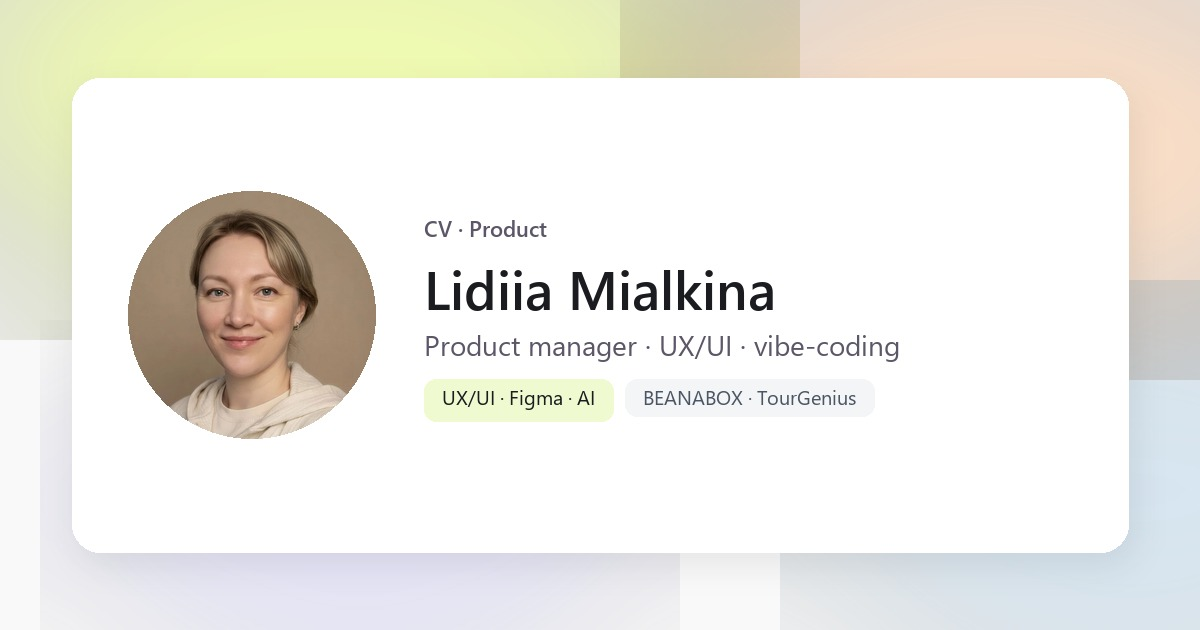
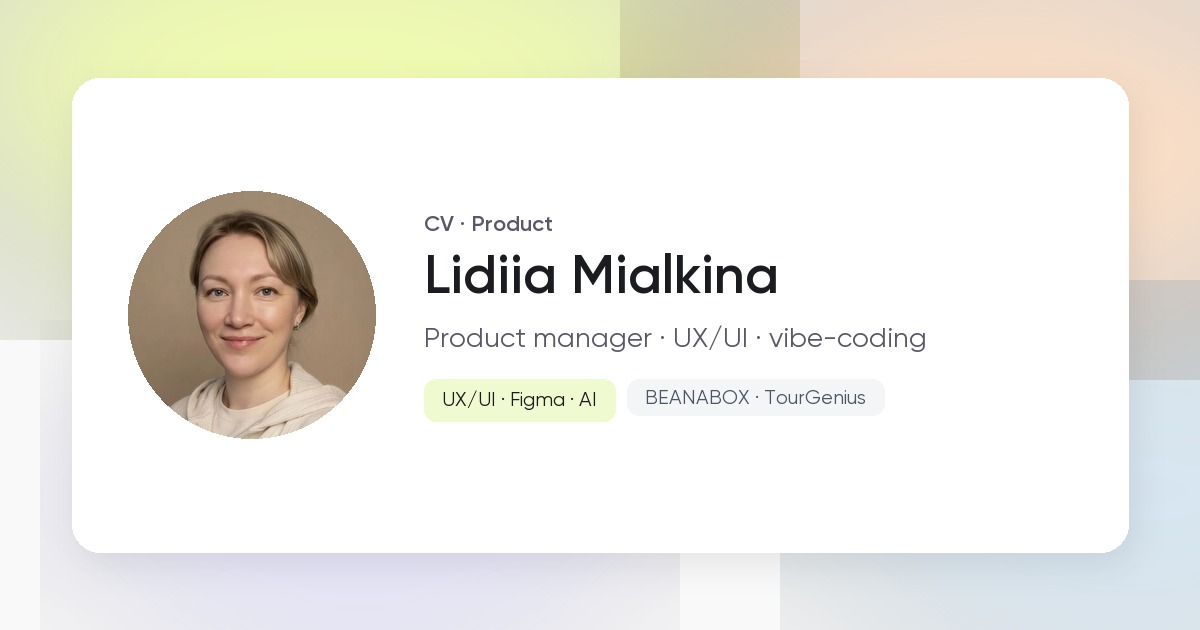
Обновление шрифта OG-бэйдж (RU/EN)

Changed region(s): [[0.3392, 0.3317, 0.7708, 0.573], [0.5242, 0.6032, 0.7092, 0.6635], [0.37, 0.6032, 0.4933, 0.6635]]

diff --git a/index.html b/index.html
@@ -28,14 +28,14 @@
     <meta property="og:url" content="https://lidee4ka.github.io/cv-PMAI/" />
     <meta property="og:locale" content="ru_RU" />
     <meta property="og:locale:alternate" content="en_US" />
-    <meta property="og:image" content="https://lidee4ka.github.io/cv-PMAI/og-cover-ru.jpg?v=5" />
+    <meta property="og:image" content="https://lidee4ka.github.io/cv-PMAI/og-cover-ru.jpg?v=6" />
     <meta property="og:image:alt" content="Лидия Мялкина, продакт-менеджер и UX/UI-дизайнер" />
     <meta property="og:image:width" content="1200" />
     <meta property="og:image:height" content="630" />
     <meta name="twitter:card" content="summary_large_image" />
     <meta name="twitter:title" content="Лидия Мялкина — продакт-менеджер UX/UI" />
     <meta name="twitter:description" content="Продакт-менеджер UX/UI: ТурГений, BEANABOX. Напишите." />
-    <meta name="twitter:image" content="https://lidee4ka.github.io/cv-PMAI/og-cover-ru.jpg?v=5" />
+    <meta name="twitter:image" content="https://lidee4ka.github.io/cv-PMAI/og-cover-ru.jpg?v=6" />
     <meta name="twitter:image:alt" content="Лидия Мялкина, продакт-менеджер и UX/UI-дизайнер" />
     <script type="application/ld+json">{"@context":"https://schema.org","@graph":[{"@type":"ProfilePage","@id":"https://lidee4ka.github.io/cv-PMAI/#page","url":"https://lidee4ka.github.io/cv-PMAI/","name":"Лидия Мялкина — продакт-менеджер, UX/UI, vibe-coding","inLanguage":"ru-RU","isPartOf":{"@id":"https://lidee4ka.github.io/cv-PMAI/#website"},"about":{"@id":"https://lidee4ka.github.io/cv-PMAI/#person"},"mainEntity":{"@id":"https://lidee4ka.github.io/cv-PMAI/#person"}},{"@type":"WebSite","@id":"https://lidee4ka.github.io/cv-PMAI/#website","url":"https://lidee4ka.github.io/cv-PMAI","name":"Лидия Мялкина","alternateName":"Lidiia Mialkina","inLanguage":["ru-RU","en-US"],"publisher":{"@id":"https://lidee4ka.github.io/cv-PMAI/#person"}},{"@type":"Person","@id":"https://lidee4ka.github.io/cv-PMAI/#person","name":"Лидия Мялкина","alternateName":["Lidiia Mialkina"],"jobTitle":"Продакт-менеджер","email":"lv@mialkina.ru","url":"https://lidee4ka.github.io/cv-PMAI","image":"https://lidee4ka.github.io/cv-PMAI/avatar.jpg","sameAs":["https://www.linkedin.com/in/lidiia-mialkina/","https://www.behance.net/lidee4ka","https://t.me/LidaMialkina","https://github.com/lidee4ka"],"address":{"@type":"PostalAddress","addressLocality":"Ярославль","addressCountry":"RU"},"knowsLanguage":["ru","en"]}]}</script>
     <script>

diff --git a/myfinishline.html b/myfinishline.html
@@ -28,14 +28,14 @@
     <meta property="og:url" content="https://lidee4ka.github.io/cv-PMAI/" />
     <meta property="og:locale" content="ru_RU" />
     <meta property="og:locale:alternate" content="en_US" />
-    <meta property="og:image" content="https://lidee4ka.github.io/cv-PMAI/og-cover-ru.jpg?v=5" />
+    <meta property="og:image" content="https://lidee4ka.github.io/cv-PMAI/og-cover-ru.jpg?v=6" />
     <meta property="og:image:alt" content="Лидия Мялкина, продакт-менеджер и UX/UI-дизайнер" />
     <meta property="og:image:width" content="1200" />
     <meta property="og:image:height" content="630" />
     <meta name="twitter:card" content="summary_large_image" />
     <meta name="twitter:title" content="Лидия Мялкина — продакт-менеджер UX/UI" />
     <meta name="twitter:description" content="Продакт-менеджер UX/UI: ТурГений, BEANABOX. Напишите." />
-    <meta name="twitter:image" content="https://lidee4ka.github.io/cv-PMAI/og-cover-ru.jpg?v=5" />
+    <meta name="twitter:image" content="https://lidee4ka.github.io/cv-PMAI/og-cover-ru.jpg?v=6" />
     <meta name="twitter:image:alt" content="Лидия Мялкина, продакт-менеджер и UX/UI-дизайнер" />
     <script type="application/ld+json">{"@context":"https://schema.org","@graph":[{"@type":"ProfilePage","@id":"https://lidee4ka.github.io/cv-PMAI/#page","url":"https://lidee4ka.github.io/cv-PMAI/","name":"Лидия Мялкина — продакт-менеджер, UX/UI, vibe-coding","inLanguage":"ru-RU","isPartOf":{"@id":"https://lidee4ka.github.io/cv-PMAI/#website"},"about":{"@id":"https://lidee4ka.github.io/cv-PMAI/#person"},"mainEntity":{"@id":"https://lidee4ka.github.io/cv-PMAI/#person"}},{"@type":"WebSite","@id":"https://lidee4ka.github.io/cv-PMAI/#website","url":"https://lidee4ka.github.io/cv-PMAI","name":"Лидия Мялкина","alternateName":"Lidiia Mialkina","inLanguage":["ru-RU","en-US"],"publisher":{"@id":"https://lidee4ka.github.io/cv-PMAI/#person"}},{"@type":"Person","@id":"https://lidee4ka.github.io/cv-PMAI/#person","name":"Лидия Мялкина","alternateName":["Lidiia Mialkina"],"jobTitle":"Продакт-менеджер","email":"lv@mialkina.ru","url":"https://lidee4ka.github.io/cv-PMAI","image":"https://lidee4ka.github.io/cv-PMAI/avatar.jpg","sameAs":["https://www.linkedin.com/in/lidiia-mialkina/","https://www.behance.net/lidee4ka","https://t.me/LidaMialkina","https://github.com/lidee4ka"],"address":{"@type":"PostalAddress","addressLocality":"Ярославль","addressCountry":"RU"},"knowsLanguage":["ru","en"]}]}</script>
     <script>

diff --git a/en/index.html b/en/index.html
@@ -28,14 +28,14 @@
     <meta property="og:url" content="https://lidee4ka.github.io/cv-PMAI/en/" />
     <meta property="og:locale" content="en_US" />
     <meta property="og:locale:alternate" content="ru_RU" />
-    <meta property="og:image" content="https://lidee4ka.github.io/cv-PMAI/og-cover-en.jpg?v=5" />
+    <meta property="og:image" content="https://lidee4ka.github.io/cv-PMAI/og-cover-en.jpg?v=6" />
     <meta property="og:image:alt" content="Lidiia Mialkina, product manager and UX/UI designer" />
     <meta property="og:image:width" content="1200" />
     <meta property="og:image:height" content="630" />
     <meta name="twitter:card" content="summary_large_image" />
     <meta name="twitter:title" content="Lidiia Mialkina — Product Manager UX/UI" />
     <meta name="twitter:description" content="Product manager UX/UI: TourGenius, BEANABOX. Get in touch." />
-    <meta name="twitter:image" content="https://lidee4ka.github.io/cv-PMAI/og-cover-en.jpg?v=5" />
+    <meta name="twitter:image" content="https://lidee4ka.github.io/cv-PMAI/og-cover-en.jpg?v=6" />
     <meta name="twitter:image:alt" content="Lidiia Mialkina, product manager and UX/UI designer" />
     <script type="application/ld+json">{"@context":"https://schema.org","@graph":[{"@type":"ProfilePage","@id":"https://lidee4ka.github.io/cv-PMAI/en/#page","url":"https://lidee4ka.github.io/cv-PMAI/en/","name":"Lidiia Mialkina — Product Manager, UX/UI, vibe-coding","inLanguage":"en-US","isPartOf":{"@id":"https://lidee4ka.github.io/cv-PMAI/#website"},"about":{"@id":"https://lidee4ka.github.io/cv-PMAI/#person"},"mainEntity":{"@id":"https://lidee4ka.github.io/cv-PMAI/#person"}},{"@type":"WebSite","@id":"https://lidee4ka.github.io/cv-PMAI/#website","url":"https://lidee4ka.github.io/cv-PMAI","name":"Лидия Мялкина","alternateName":"Lidiia Mialkina","inLanguage":["ru-RU","en-US"],"publisher":{"@id":"https://lidee4ka.github.io/cv-PMAI/#person"}},{"@type":"Person","@id":"https://lidee4ka.github.io/cv-PMAI/#person","name":"Лидия Мялкина","alternateName":["Lidiia Mialkina"],"jobTitle":"Product Manager","email":"lv@mialkina.ru","url":"https://lidee4ka.github.io/cv-PMAI","image":"https://lidee4ka.github.io/cv-PMAI/avatar.jpg","sameAs":["https://www.linkedin.com/in/lidiia-mialkina/","https://www.behance.net/lidee4ka","https://t.me/LidaMialkina","https://github.com/lidee4ka"],"address":{"@type":"PostalAddress","addressLocality":"Yaroslavl","addressCountry":"RU"},"knowsLanguage":["ru","en"]}]}</script>
     <script>

diff --git a/scripts/build_og_covers.py b/scripts/build_og_covers.py
@@ -22,17 +22,23 @@ BLUE = (91, 159, 208)
 PEACH = (255, 179, 115)
 VIOLET = (92, 92, 238)
 
-FONT_REG = r"C:\Windows\Fonts\segoeui.ttf"
-FONT_SEMIBOLD = r"C:\Windows\Fonts\seguisb.ttf"
-FONT_BOLD = r"C:\Windows\Fonts\segoeuib.ttf"
+FONT_DIR = r"C:\Users\Лидия\AppData\Local\Microsoft\Windows\Fonts"
+FONT_BY_WEIGHT = {
+    400: os.path.join(FONT_DIR, "Gilroy-Regular.ttf"),
+    500: os.path.join(FONT_DIR, "Gilroy-Regular.ttf"),
+    600: os.path.join(FONT_DIR, "Gilroy-Semibold.ttf"),
+    700: os.path.join(FONT_DIR, "Gilroy-Bold.ttf"),
+}
 
 
 def load_font(size: int, weight: int = 500) -> ImageFont.FreeTypeFont:
-    path = FONT_REG
-    if weight >= 700:
-        path = FONT_BOLD
-    elif weight >= 600:
-        path = FONT_SEMIBOLD
+    path = FONT_BY_WEIGHT.get(weight) or FONT_BY_WEIGHT[500]
+    if not os.path.exists(path):
+        # fallbacks if a face is missing
+        for candidate in FONT_BY_WEIGHT.values():
+            if os.path.exists(candidate):
+                path = candidate
+                break
     return ImageFont.truetype(path, size)
 
 
